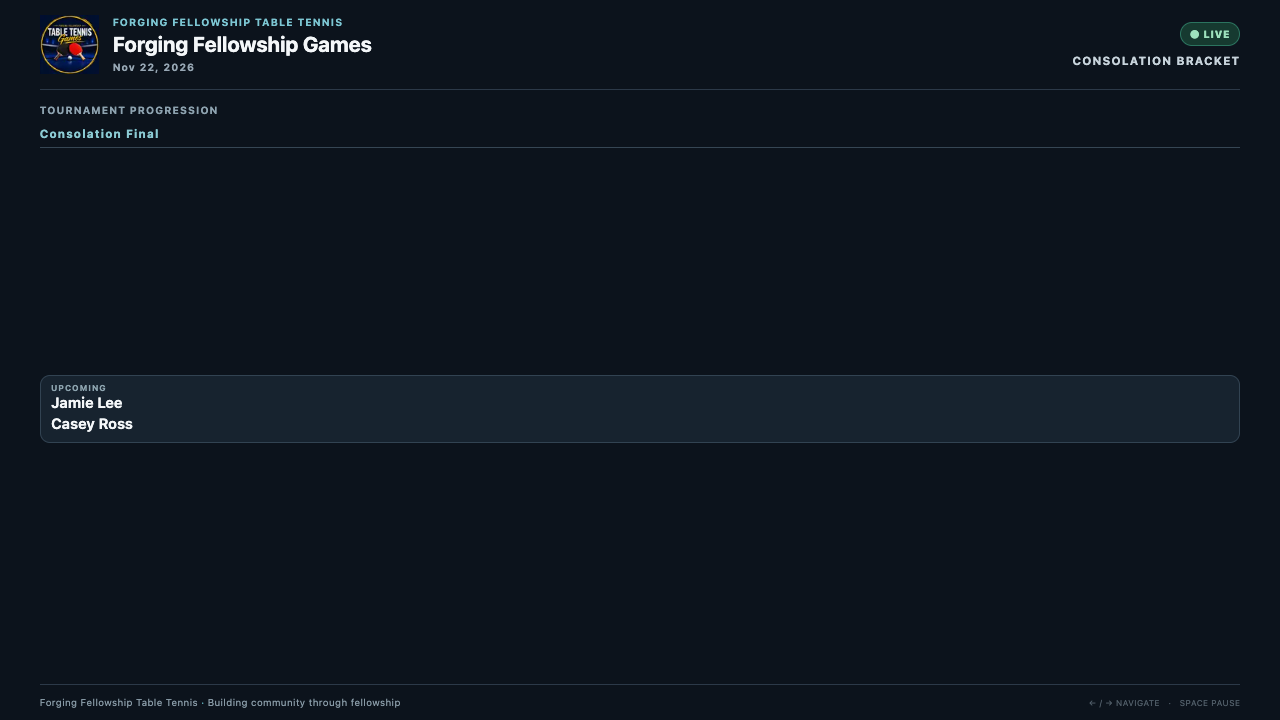
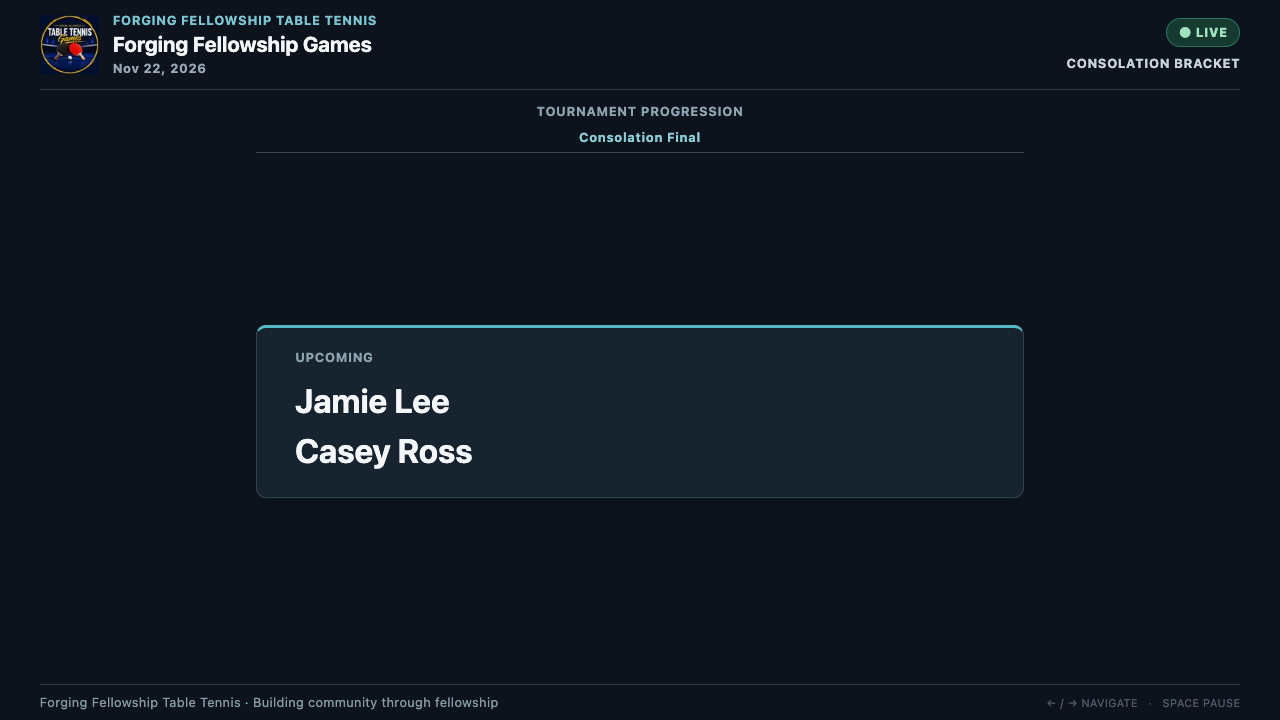
Refine TV bracket and score presentation

diff --git a/app/tv.css b/app/tv.css
@@ -1,1 +1,20 @@
 *{box-sizing:border-box}html,body{margin:0;width:100%;height:100%;overflow:hidden}body.tv{font-family:Inter,ui-sans-serif,system-ui,-apple-system,BlinkMacSystemFont,"Segoe UI",sans-serif;background:#0c131c;color:#f4f7f9;display:grid;grid-template-rows:12.5% 1fr 5%;padding:0 3.1vw}button{font:inherit}.tv-header{display:flex;align-items:center;justify-content:space-between;border-bottom:1px solid #2c3948;gap:2vw}.brand{display:flex;align-items:center;gap:1.1vw;min-width:0}.brand img{width:clamp(48px,4.6vw,88px);height:clamp(48px,4.6vw,88px);object-fit:contain}.eyebrow,.event-date,.screen-label,.section-heading span,.tiny-label,.card-top,.next-meta,.result-top,.result-games,.round-heading,.bracket-state,.bracket-scores,.bracket-caption,.champions span{letter-spacing:.1em;font-weight:700}.eyebrow{font-size:clamp(9px,.8vw,16px);color:#7cc6d3}.brand h1{font-size:clamp(19px,1.65vw,32px);line-height:1.1;margin:.25em 0;overflow-wrap:anywhere}.event-date{font-size:clamp(10px,.8vw,16px);color:#97a7b4}.header-right{text-align:right;flex-shrink:0}.feed-status{display:inline-block;border:1px solid #675e3e;border-radius:99px;padding:.45em .9em;color:#efd490;font-size:clamp(10px,.8vw,16px);font-weight:800;letter-spacing:.06em}.feed-status.current{border-color:#2b745f;background:#163a30;color:#9de1bd}.screen-label{margin-top:.7em;color:#c8d4dc;font-size:clamp(11px,.9vw,18px)}.tv-main{min-height:0;padding:2vh 0}.match-center{height:100%;display:grid;grid-template-rows:58% 1fr;gap:2vh}.now-section,.next-section{min-height:0;display:flex;flex-direction:column}.section-heading{display:flex;align-items:baseline;justify-content:space-between;margin-bottom:1.1vh}.section-heading h2{font-size:clamp(19px,1.75vw,34px);margin:0;letter-spacing:-.02em}.section-heading span{font-size:clamp(9px,.72vw,14px);color:#728797}.table-grid{display:grid;grid-template-columns:1fr 1fr;gap:1.4vw;min-height:0;flex:1}.table-card,.next-card,.result-card,.bracket-match{background:#17232f;border:1px solid #324352;border-radius:10px}.table-card{padding:1.4vh 1.4vw;display:flex;flex-direction:column;min-width:0;min-height:0}.table-card.active{border-top:3px solid #57b9c7}.card-top{display:flex;justify-content:space-between;align-items:center;font-size:clamp(11px,.95vw,18px);color:#b6cad3}.table-label{color:#8bd3df}.status-label{color:#8da0ab;font-size:.85em}.active .status-label{color:#91d9aa}.match-content{flex:1;display:grid;grid-template-columns:1fr auto;grid-template-rows:1fr auto;align-items:center;gap:1vh 1vw;min-height:0}.players{min-width:0}.player-name{font-weight:750;font-size:clamp(18px,2.1vw,42px);line-height:1.08;overflow-wrap:anywhere}.versus{font-size:clamp(10px,.7vw,14px);color:#718798;font-weight:800;margin:.7vh 0}.score-pending{text-align:center;color:#92a5b1;display:grid;gap:.5vh;font-size:clamp(9px,.75vw,15px)}.score-pending strong{font-size:clamp(26px,3vw,58px);color:#e9f1f3;line-height:1}.tiny-label{color:#7c919f;font-size:.9em}.match-meta{grid-column:1/-1;border-top:1px solid #30404d;padding-top:1vh;color:#a9bac5;font-size:clamp(11px,.9vw,18px)}.empty-table{flex:1;display:flex;flex-direction:column;justify-content:center;align-items:center;gap:1vh;color:#8fa2ae;font-size:clamp(12px,1vw,20px)}.empty-table strong{color:#c8d4db;font-size:clamp(20px,1.8vw,34px)}.next-grid{flex:1;min-height:0;display:grid;grid-template-columns:1fr 1fr;grid-template-rows:repeat(2,minmax(0,1fr));gap:1vh 1.4vw}.next-card{padding:1vh 1.1vw;display:flex;flex-direction:column;justify-content:center;min-width:0}.next-names{font-size:clamp(14px,1.3vw,25px);font-weight:750;line-height:1.14;overflow-wrap:anywhere}.next-vs{color:#718798;font-size:.65em;margin:0 .7em}.next-meta{color:#8fa3af;font-size:clamp(9px,.68vw,13px);margin-top:.7vh}.next-empty{flex:1;border:1px dashed #344553;border-radius:10px;display:flex;align-items:center;justify-content:center;color:#91a4b1;font-size:clamp(14px,1.1vw,22px)}footer{border-top:1px solid #2c3948;display:flex;align-items:center;justify-content:space-between;color:#8799a5;font-size:clamp(9px,.76vw,15px);letter-spacing:.03em}.dot{color:#68bdc9}.control-hint{opacity:.55;font-size:.85em}.controls{position:fixed;bottom:3vh;left:50%;transform:translate(-50%,20px);display:flex;gap:6px;padding:8px;background:#202f3c;border:1px solid #485b68;border-radius:8px;opacity:0;transition:opacity .2s,transform .2s;z-index:5}.controls:hover,.controls:focus-within{opacity:1;transform:translate(-50%,0)}.controls button{background:#314653;color:white;border:0;border-radius:5px;padding:.6em .8em;cursor:pointer;white-space:nowrap}.results-view{height:100%;display:flex;flex-direction:column;gap:1.5vh}.champions{display:flex;gap:2vw;border-left:3px solid #80d7a0;background:#1a302d;padding:1vh 1vw}.champions>div{display:grid;gap:.2vh;flex:1;min-width:0}.champions span{font-size:clamp(9px,.65vw,13px);color:#9ddbb5}.champions strong{font-size:clamp(16px,1.35vw,26px);overflow-wrap:anywhere}.champions small{color:#adbfbd;font-size:clamp(10px,.7vw,14px)}.results-grid{flex:1;min-height:0;display:grid;grid-template-columns:1fr 1fr;grid-template-rows:repeat(3,minmax(0,1fr));gap:1.2vh 1.4vw}.result-card{padding:1.2vh 1.2vw;display:flex;flex-direction:column;justify-content:space-between;min-height:0}.result-top,.result-games{font-size:clamp(9px,.75vw,15px);color:#93a8b5}.result-body{display:flex;align-items:center;justify-content:space-between;gap:1vw;min-height:0}.result-players{font-size:clamp(16px,1.5vw,29px);line-height:1.16;font-weight:600;overflow-wrap:anywhere}.winner{color:#a6e3bd;font-weight:800}.result-tally{font-size:clamp(28px,2.8vw,54px);font-weight:800;white-space:nowrap}.bracket-view{height:100%;display:flex;flex-direction:column}.bracket-caption{display:flex;justify-content:space-between;color:#8ea3b0;font-size:clamp(10px,.8vw,16px);margin-bottom:1.5vh}.bracket-caption strong{color:#a6e3bd}.bracket-columns{position:relative;display:flex;gap:2vw;flex:1;min-height:0}.bracket-round{flex:1;min-width:0;display:flex;flex-direction:column}.round-heading{color:#8bcbd4;font-size:clamp(10px,.9vw,18px);padding-bottom:1vh;border-bottom:1px solid #364654}.bracket-matches{flex:1;display:flex;flex-direction:column;justify-content:space-around;gap:1vh}.bracket-match{position:relative;padding:1vh .8vw;min-width:0}.bracket-connectors{position:absolute;inset:0;width:100%;height:100%;pointer-events:none;overflow:visible}.bracket-connectors path{fill:none;stroke:#597281;stroke-width:1}.bracket-round{position:relative}.bracket-match.playing{border-color:#62c1cb}.bracket-state,.bracket-scores{color:#8da4af;font-size:clamp(8px,.65vw,13px)}.bracket-player{font-size:clamp(13px,1.15vw,22px);font-weight:650;line-height:1.14;overflow-wrap:anywhere;padding:.3vh 0}.bracket-scores{border-top:1px solid #344653;padding-top:.4vh}.waiting{height:100%;display:flex;flex-direction:column;align-items:center;justify-content:center;text-align:center}.waiting h2{font-size:clamp(26px,3vw,58px);margin:.4em 0}.waiting p{color:#9caeb9;font-size:clamp(14px,1.2vw,24px)}@media(max-aspect-ratio: 4/3){.control-hint{display:none}}@media(prefers-reduced-motion:reduce){.controls{transition:none}}
+
+/* A single consolation matchup deserves its own focal point; normal bracket windows are unchanged. */
+.single-match .bracket-caption{justify-content:center}
+.single-match .bracket-columns{justify-content:center}
+.single-match .bracket-round{flex:0 1 64%;max-width:1000px}
+.single-match .round-heading{text-align:center}
+.single-match .bracket-matches{justify-content:center}
+.single-match .bracket-match{padding:clamp(20px,3vh,34px) clamp(24px,3vw,52px);border-top:3px solid #57b9c7}
+.single-match .bracket-state{margin-bottom:1.6vh}
+.single-match .bracket-player{font-size:clamp(24px,2.6vw,48px);padding:.8vh 0}
+.single-match .bracket-scores{margin-top:1.5vh;padding-top:1vh}
+.score-pending{font-size:clamp(13px,1vw,19px);font-weight:650;color:#a9bac5;max-width:12em;line-height:1.3}
+/* Keep supporting information legible on smaller landscape screens. */
+@media (max-width: 1400px){
+  .eyebrow,.event-date,.feed-status,.screen-label,.section-heading span,.card-top,.next-meta,.result-top,.result-games,.round-heading,.bracket-state,.bracket-scores,.bracket-caption,.champions span{font-size:clamp(12px,1vw,14px);letter-spacing:.055em}
+  .match-meta,footer{font-size:clamp(12px,1vw,14px)}
+  .next-meta{line-height:1.2}
+  .control-hint{font-size:.85em}
+}

diff --git a/docs/tv-progress-design.md b/docs/tv-progress-design.md
@@ -1,6 +1,6 @@
 # TV match progress: future public projection
 
-The current score-entry workflow submits a complete result as a single authorized operation. The public tournament projection includes result scores but has no established interim-game publication or individual completion timestamp. The TV therefore displays “Awaiting published scores” for active matches and labels the structurally ordered result list “Completed Results.” It does not infer 0–0, publish a tournament record from names, or use the event update time as a match completion time.
+The current score-entry workflow submits a complete result as a single authorized operation. The public tournament projection includes result scores but has no established interim-game publication or individual completion timestamp. The TV therefore displays “Game scores pending” for active matches and labels the structurally ordered result list “Completed Results.” It does not infer 0–0, publish a tournament record from names, or use the event update time as a match completion time.
 
 If live game progress is later authorized, keep it separate from the authoritative result. A server-owned, event-scoped progress projection could expose only a match's public identifier, ordered completed game score pairs, format, and a server revision. Staff writes would require existing event-scoped authorization and server validation of each finished game against that match's format; the public endpoint would be anonymous and read-only, gated by event publication. It must never create a result, choose a winner, change eligibility, or advance a bracket. Final submission remains the sole authority and should atomically supersede or clear progress. Corrections, unpublishing, reassignment and event deletion must invalidate the projection; missing, inconsistent, or stale progress must display as unavailable. The public allowlist must reject unexpected fields and avoid participant contact details, ratings and credentials.
 
